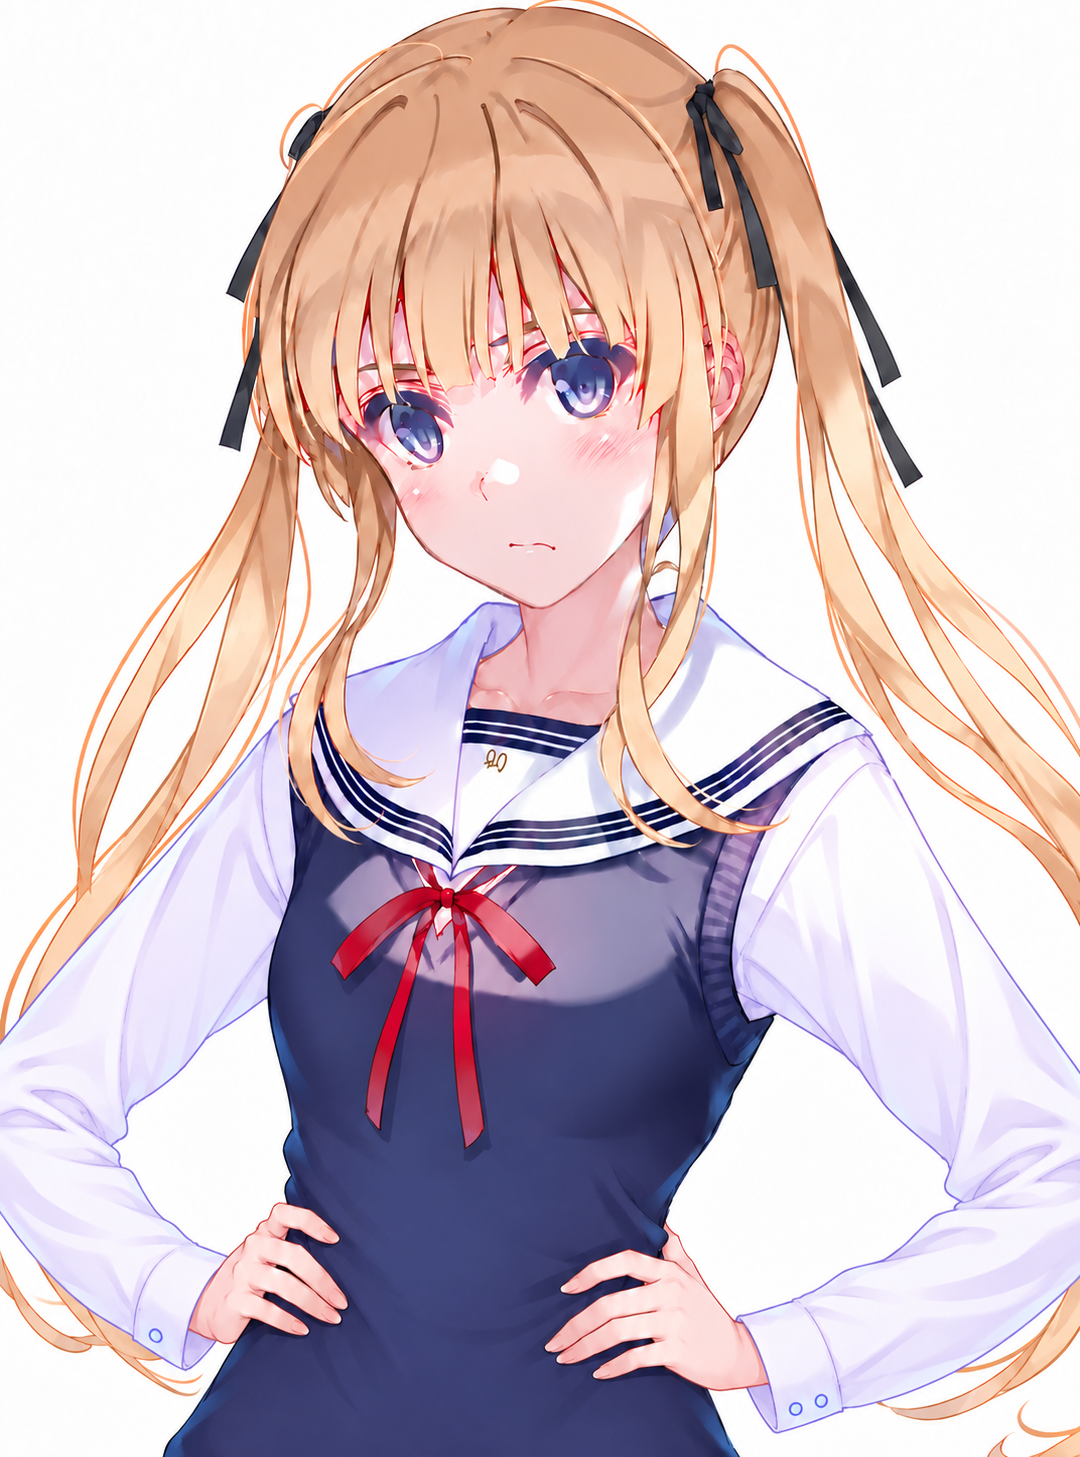
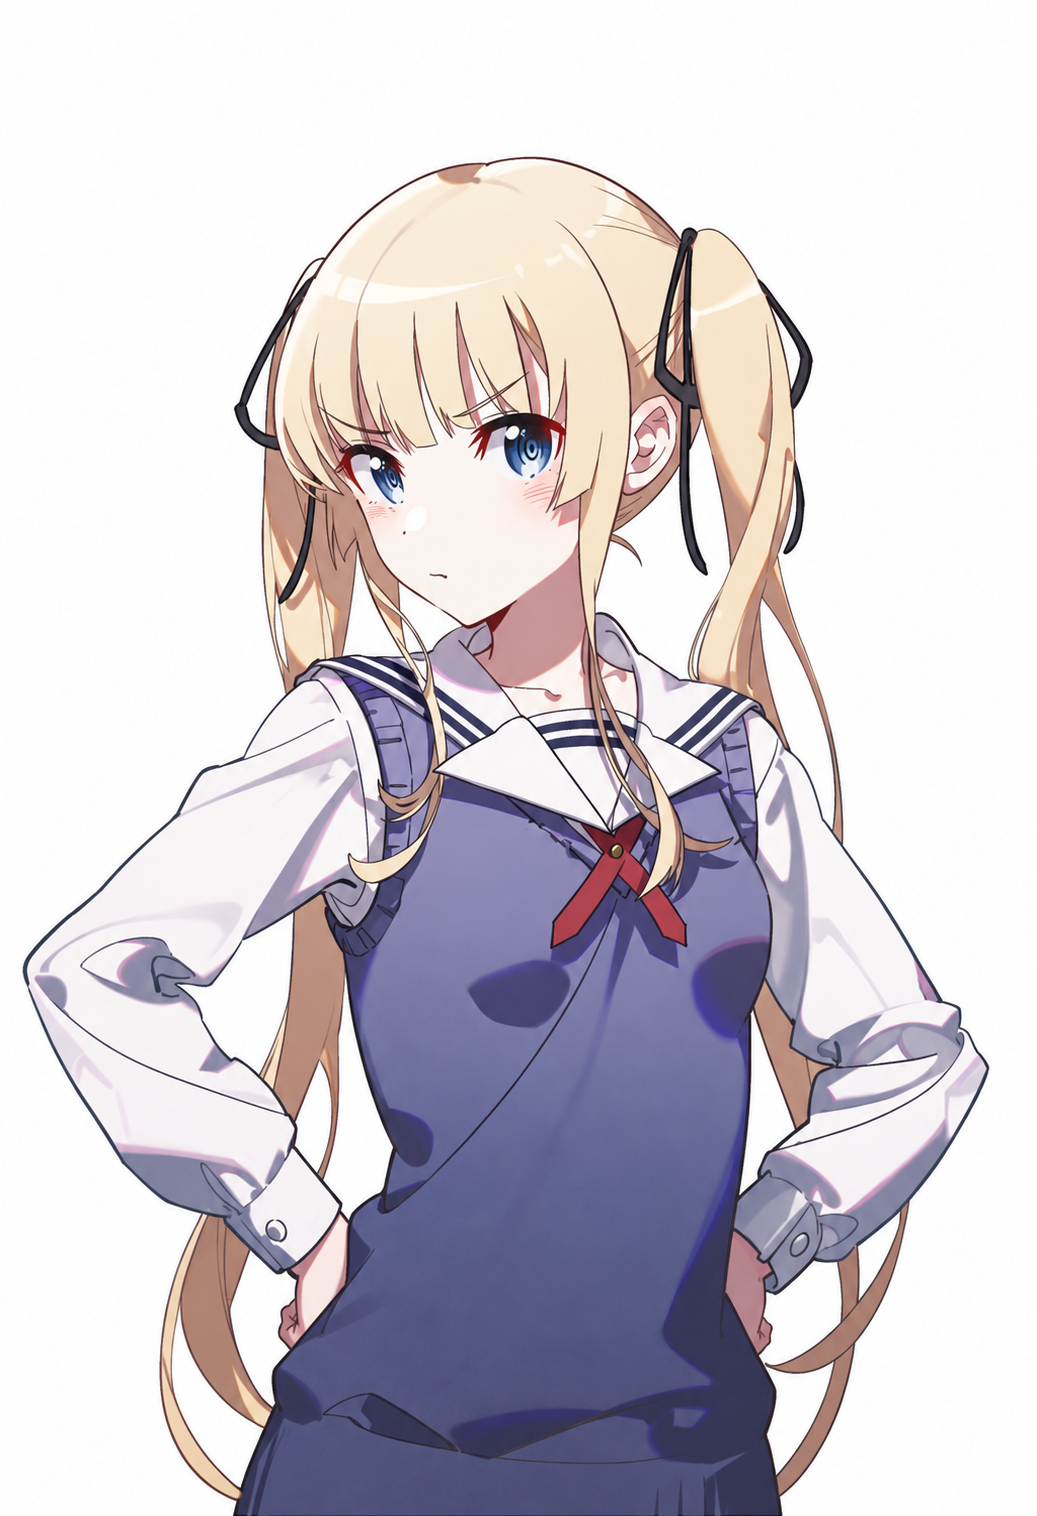
Update 泽村英梨梨 default portrait

diff --git a/images/portraits/saekano/sawamura-spencer-eriri/README.md b/images/portraits/saekano/sawamura-spencer-eriri/README.md
@@ -1,9 +1,9 @@
 # 泽村英梨梨 · 常规立绘
 
 - 当前文件：[default.png](default.png)。
-- 用户选定原图：`v1-approved.png`。
-- 尺寸：1080 × 1457；大小：1,756,763 字节。
[1 lines of base64/hex data omitted]
+- 用户选定原图：`edited-v2-komachi-hands.png`。
+- 尺寸：1037 × 1516；大小：1,430,513 字节。
[1 lines of base64/hex data omitted]
 - PNG 模型记录：未知。
 - 可读取的生成参数：seed 未知；steps 未知；scale 未知；cfg_rescale 未知；sampler 未知；noise_schedule 未知。
 - 原图字节及内嵌数据完整保留，没有裁切、缩放、抠图或重新编码。
